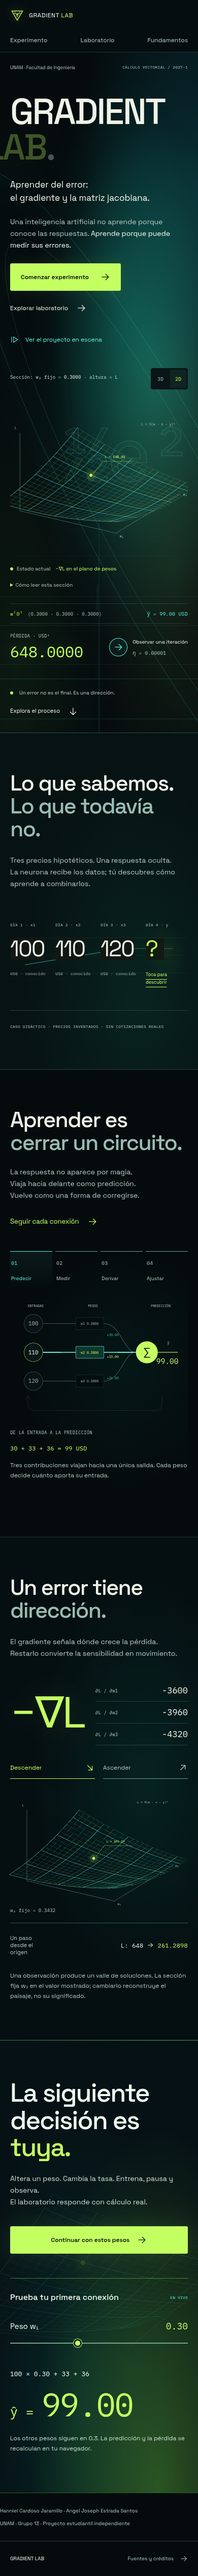
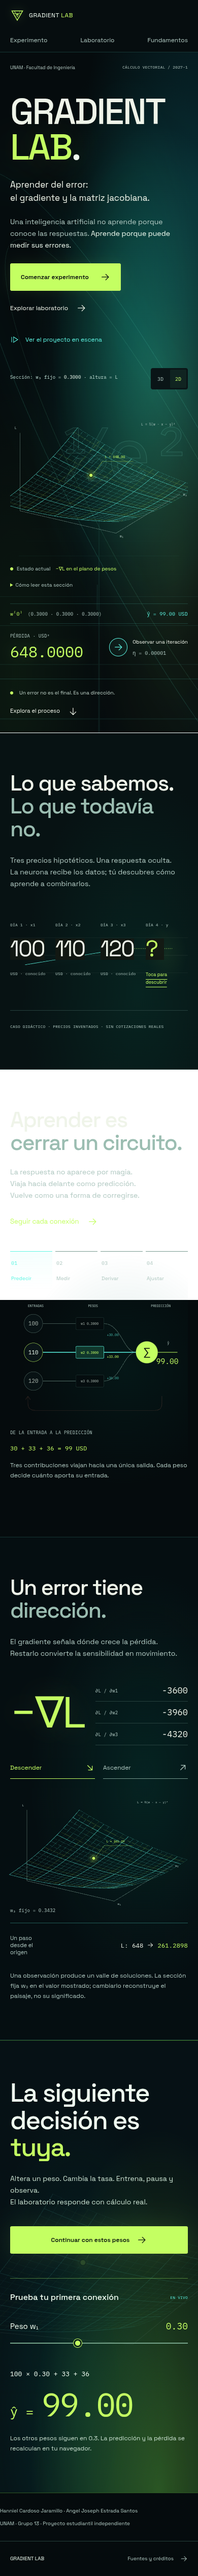
fix: elimina revelaciones en movimiento reducido y valida el build en CI

Changed region(s): [[0.0, 0.4054, 1.0, 0.5301], [0.0308, 0.0312, 0.3692, 0.0624]]

diff --git a/playwright.config.ts b/playwright.config.ts
@@ -4,8 +4,8 @@ import { existsSync } from 'node:fs';
 export default defineConfig({
   testDir: './tests',
   fullyParallel: false,
-  // WebGL uses a software renderer in CI; avoid saturating it with eight browsers.
-  workers: 2,
+  // A software WebGL browser already consumes the CI runner's CPU budget.
+  workers: process.env.CI ? 1 : 2,
   retries: process.env.CI ? 1 : 0,
   reporter: [['list'], ['html', { open: 'never' }]],
   use: {
@@ -22,7 +22,7 @@ export default defineConfig({
     { name: 'mobile', use: { browserName: 'chromium', viewport: { width: 390, height: 844 }, isMobile: true, hasTouch: true } },
   ],
   webServer: process.env.PLAYWRIGHT_BASE_URL ? undefined : {
-    command: 'npm run dev -- --port 4173',
+    command: process.env.CI ? 'npm run preview -- --port 4173' : 'npm run dev -- --port 4173',
     url: 'http://127.0.0.1:4173/gradient-lab/',
     reuseExistingServer: !process.env.CI,
   },

diff --git a/tests/visual-v3.spec.ts b/tests/visual-v3.spec.ts
@@ -1,6 +1,14 @@
 import { test, expect } from '@playwright/test';
 import AxeBuilder from '@axe-core/playwright';
 
+test('movimiento reducido elimina la animación de entrada de los controles', async ({ page }) => {
+  await page.emulateMedia({ reducedMotion: 'reduce' });
+  await page.goto('#/aprender/4');
+  await expect(page.locator('.chapter-visual')).toHaveCSS('animation-name', 'none');
+  await expect(page.locator('.chapter-visual')).toHaveCSS('opacity', '1');
+  expect((await new AxeBuilder({ page }).withTags(['wcag2a', 'wcag2aa', 'wcag21aa']).analyze()).violations).toEqual([]);
+});
+
 test('el foco de ruta respeta un control que el usuario ya seleccionó', async ({ page }) => {
   await page.clock.install({ time: new Date('2026-11-10T18:00:00Z') });
   await page.clock.pauseAt(new Date('2026-11-10T18:00:01Z'));

diff --git a/src/styles.css b/src/styles.css
@@ -582,6 +582,6 @@ caption { padding-block: 12px; font-size: 12px; color: var(--muted); text-align:
   .credits h2 { font-size: 28px; }
 }
 @media (prefers-reduced-motion: reduce) {
-  *, *::before, *::after { animation-duration: 0.01ms !important; animation-iteration-count: 1 !important; transition-duration: 0.01ms !important; scroll-behavior: auto !important; }
+  *, *::before, *::after { animation: none !important; transition: none !important; scroll-behavior: auto !important; }
   .signal { display: none; }
 }

diff --git a/docs/ESTADO_ACTUAL.md b/docs/ESTADO_ACTUAL.md
@@ -44,14 +44,14 @@ Canvas a demanda, sin rotación constante ni postprocesado. Material emisivo, Fr
 
 - `npm test -- --reporter=dot`: **32/32 aprobadas**.
 - `npm run build`: **aprobado**, incluida comprobación TypeScript estricta.
-- `PLAYWRIGHT_BASE_URL=http://127.0.0.1:4173/gradient-lab/ npm run test:e2e`: **40/40 aprobadas** sobre build estático local, escritorio 1440×1000 y móvil emulado 390×844.
-- Se conservan las 22 ejecuciones anteriores y se añaden 18: diez escenas, navegación, cálculos, reproducción/pausa/foco, salida con estado conservado, restauración, ascenso sincronizado, cifras exactas y paisaje visible hasta primer draw, ayudas de métricas y foco sin carreras de navegación. Axe sin infracciones en las vistas y reglas examinadas; no equivale a una auditoría manual completa.
+- `CI=1 PLAYWRIGHT_BASE_URL=http://127.0.0.1:4173/gradient-lab/ npm run test:e2e`: **42/42 aprobadas** sobre build estático local, escritorio 1440×1000 y móvil emulado 390×844.
+- Se conservan las 22 ejecuciones anteriores y se añaden 20: diez escenas, navegación, cálculos, reproducción/pausa/foco, salida con estado conservado, restauración, ascenso sincronizado, cifras exactas y paisaje visible hasta primer draw, ayudas de métricas, foco sin carreras de navegación y ausencia completa de animaciones en movimiento reducido. Axe sin infracciones en las vistas y reglas examinadas; no equivale a una auditoría manual completa.
 - Revisión independiente de código: se señalaron y corrigieron snapshot de ascenso y cifras intermedias inconsistentes. Revisión adicional del primer fotograma sin defectos importantes; la inspección visual la realizó el implementador.
[1 lines of base64/hex data omitted]
 
 El detector manual Impeccable no encontró hallazgos activos. Space Grotesk se mantiene por la decisión documentada, con excepción puntual `overused-font=space grotesk`; se registró también en la raíz del workspace para el hook que informa rutas `gradient-lab/src/...`. No se desactivaron reglas completas ni archivos.
 
-Durante la validación se corrigieron etiquetas sobre el título, separación del acceso cinematográfico, el hueco previo al primer draw, repetición de paso al reanudar, sincronización de ascenso y lecturas numéricas. Las pruebas de primer fotograma y ayuda contextual fallaron antes de los arreglos y pasaron después. La suite también detectó que el RAF de navegación podía quitar el foco a un control recién seleccionado: se reprodujo con el reloj de navegador y se corrigió conservando el foco del usuario, sin perder saltos explícitos a referencias. Un primer intento con ocho navegadores saturó SwiftShader; con dos workers la suite completa pasa sin ampliar timeouts.
+Durante la validación se corrigieron etiquetas sobre el título, separación del acceso cinematográfico, el hueco previo al primer draw, repetición de paso al reanudar, sincronización de ascenso y lecturas numéricas. Las pruebas de primer fotograma y ayuda contextual fallaron antes de los arreglos y pasaron después. La suite también detectó que el RAF de navegación podía quitar el foco a un control recién seleccionado: se reprodujo con el reloj de navegador y se corrigió conservando el foco del usuario, sin perder saltos explícitos a referencias. Localmente, ocho navegadores saturaban SwiftShader y dos permitían completar la suite. La primera ejecución remota con dos workers dio 33/40 y siete fallos: tiempo de interacción y contraste durante revelaciones. Se corrigió reduced-motion con animation:none en lugar de una duración de 0.01 ms, se añadió una regresión que falló antes y pasó después, y CI pasó a servir el build estático con un solo worker. La suite local final da 42/42 con esa configuración, sin ampliar timeouts ni quitar aserciones. La revisión independiente de esta corrección no encontró riesgos importantes.
 
 ## Comparación visual y animaciones
 
@@ -67,24 +67,24 @@ Las carpetas [antes](visual-v3/before/) y [después](visual-v3/after/) contienen
 | Laboratorio divergente | [Antes](visual-v3/before/lab-Divergente-1440.png) | [Después](visual-v3/after/lab-Divergente-1440.png) |
 | Presentación | [Académica v2](visual-v3/before/presentation-1440.png) | [Cinematográfica v3](visual-v3/after/cinema-intro-1440.png) |
 
-Presentación: [jacobiana](visual-v3/after/cinema-jacobian-1440.png), [descenso](visual-v3/after/cinema-descent-1440.png), [entrenamiento real](visual-v3/after/cinema-live-1440.png), [conclusión](visual-v3/after/cinema-end-1440.png), [móvil](visual-v3/after/cinema-intro-390.png), [movimiento reducido](visual-v3/after/reduced-390.png), [ayuda contextual móvil](visual-v3/after/lab-help-390.png).
+Presentación: [jacobiana](visual-v3/after/cinema-jacobian-1440.png), [descenso](visual-v3/after/cinema-descent-1440.png), [entrenamiento real](visual-v3/after/cinema-live-1440.png), [conclusión](visual-v3/after/cinema-end-1440.png), [móvil](visual-v3/after/cinema-intro-390.png), [movimiento reducido](visual-v3/after/reduced-390.png), [ayuda contextual móvil](visual-v3/after/lab-help-390.png), [jacobiana sin animación](visual-v3/after/reduced-jacobian-390.png).
 
 **[Grabación WebM de la experiencia](visual-v3/after/video/presentation.webm)**: 23.04 s, 1440×1000, VP9 a 25 fotogramas/s de grabación, 9.18 MB. Captura real del navegador con entrada, una iteración, circuito, jacobiana, descenso, entrenamiento y conclusión. Se graba aparte de las medidas de cadencia para no añadir el coste del codificador al benchmark. Reproducción: descargar/abrir en un navegador compatible; no se carga al entrar en la aplicación.
 
 ## Rendimiento medido
 
-Builds de producción v2/v3, tamaños gzip en bytes:
+Builds de producción v2/v3, tamaños gzip en bytes (columna v3 actualizada tras la corrección de movimiento reducido):
 
 | Recurso | V2 | V3 | Diferencia |
 |---|---:|---:|---:|
-| JavaScript inicial | 91,468 B | 92,569 B | +1,101 B |
-| CSS inicial | 12,744 B | 18,075 B | +5,331 B |
-| Escena diferida | 250,297 B | 251,557 B | +1,260 B |
-| Presentación diferida nueva | — | 3,284 B | Solo al abrirla |
+| JavaScript inicial | 91,468 B | 92,568 B | +1,100 B |
+| CSS inicial | 12,744 B | 18,056 B | +5,312 B |
+| Escena diferida | 250,297 B | 251,556 B | +1,259 B |
+| Presentación diferida nueva | — | 3,283 B | Solo al abrirla |
 
-JS + CSS iniciales: **+6,432 B gzip (6.2 %)**. Recursos observados en portada: 161,244 → 167,676 B en teléfono y 411,841 → 419,533 B con 3D de escritorio/tableta. La escena sigue en un chunk separado; Vite mantiene el aviso por superar 500 kB sin comprimir.
+JS + CSS iniciales: **+6,412 B gzip (6.2 %)**. Recursos observados en portada: 161,244 → 167,676 B en teléfono y 411,841 → 419,533 B con 3D de escritorio/tableta. La escena sigue en un chunk separado; Vite mantiene el aviso por superar 500 kB sin comprimir.
 
-FCP local, una carga por anchura y fase:
+FCP local, una carga por anchura y fase. La muestra v3 corresponde al commit 6b5af76; los cambios visuales posteriores afectan únicamente a movimiento reducido:
 
 | Anchura | V2 | V3 |
 |---|---:|---:|
@@ -98,11 +98,11 @@ No se afirma una mejora de carga: cuatro muestras aumentan y la de 390 px dismin
 
 En 1440 px, intervalos rAF durante una muestra de entrada de 2.2 s: v2 mediana 16.7 ms, p95 16.7 ms, 1 intervalo >33.34 ms (130 muestras); v3 mediana 16.7 ms, p95 50 ms, 19 intervalos >33.34 ms (89 muestras). El coste de inicio es mayor en SwiftShader. Esto mide cadencia del navegador, **no FPS efectivos de GPU**. Tras estabilizar, hubo **0 llamadas de dibujo adicionales en 400 ms** en todas las anchuras; en teléfonos el hero permanece en SVG.
 
-Datos completos, renderer y nombres/hash de bundles: [v2](visual-v3/before/performance.json) y [v3](visual-v3/after/performance.json). La grabación está separada del muestreo de cadencia. No se convierten estos resultados en una promesa de rendimiento en hardware físico.
+Los tamaños actualizados están en finalBundles del JSON; bundles conserva los recursos exactos del muestreo original. Las capturas de movimiento reducido se actualizaron después de corregirlo, sin repetir la grabación de movimiento completo. Datos completos, renderer y nombres/hash de bundles: [v2](visual-v3/before/performance.json) y [v3](visual-v3/after/performance.json). La grabación está separada del muestreo de cadencia. No se convierten estos resultados en una promesa de rendimiento en hardware físico.
 
 ## Entrega y publicación
 
-PR abierta: **[#2 — Electric Observatory y presentación cinematográfica](https://github.com/HannDev2/gradient-lab/pull/2)**, de `feature/visual-v3` hacia `feature/visual-v2`. Código, pruebas y evidencia visual guardados en `6b5af76b516cbf97603e8285a156a66c36f21e38`; los commits siguientes completan enlaces/documentación. Los resultados de Actions se consultan en [las verificaciones de la PR](https://github.com/HannDev2/gradient-lab/pull/2/checks).
+PR abierta: **[#2 — Electric Observatory y presentación cinematográfica](https://github.com/HannDev2/gradient-lab/pull/2)**, de `feature/visual-v3` hacia `feature/visual-v2`. Código, pruebas y evidencia visual guardados en `6b5af76b516cbf97603e8285a156a66c36f21e38`; los commits siguientes completan enlaces y corrigen movimiento reducido/configuración de CI. Los resultados de Actions se consultan en [las verificaciones de la PR](https://github.com/HannDev2/gradient-lab/pull/2/checks).
 
[1 lines of base64/hex data omitted]
 

diff --git a/docs/VERIFICATION.md b/docs/VERIFICATION.md
@@ -49,7 +49,7 @@ PR de entrega: [#1](https://github.com/HannDev2/gradient-lab/pull/1). Validació
 
 ## Electric Observatory v3 — comprobación local
 
-10 de noviembre de 2026 (México), `feature/visual-v3` basada en `a18e3b0` de v2. `npm test -- --reporter=dot`: **32/32**; `npm run build`: **aprobado**, incluye TypeScript; `PLAYWRIGHT_BASE_URL=http://127.0.0.1:4173/gradient-lab/ npm run test:e2e`: **40/40** sobre build estático con Vite preview. Se conservan 22 ejecuciones anteriores y se añaden 18, repartidas entre escritorio y móvil emulado.
+10 de noviembre de 2026 (México), `feature/visual-v3` basada en `a18e3b0` de v2. `npm test -- --reporter=dot`: **32/32**; `npm run build`: **aprobado**, incluye TypeScript; `CI=1 PLAYWRIGHT_BASE_URL=http://127.0.0.1:4173/gradient-lab/ npm run test:e2e`: **42/42** sobre build estático con Vite preview. Se conservan 22 ejecuciones anteriores y se añaden 20, repartidas entre escritorio y móvil emulado.
 
 La presentación completa verifica diez escenas, cálculo real compartido, salida con estado conservado, reproducción/pausa/foco, restauración, ascenso sincronizado y cifras exactas. También se comprueban ayuda contextual mediante teclado/toque/Escape y SVG hasta primer draw. La prueba con RAF detenido reprodujo la carrera de foco de navegación; tras el guard de foco pasa tanto esa regresión como el flujo previo de teclado. No se aumentaron timeouts ni se retiraron aserciones para lograrlo.
 
@@ -62,3 +62,5 @@ Capturas comparativas v2/v3, vídeo real WebM y métricas se guardan en `docs/vi
[1 lines of base64/hex data omitted]
 
 Entrega v3: [PR #2 hacia feature/visual-v2](https://github.com/HannDev2/gradient-lab/pull/2), abierta y sin fusionar. [Verificaciones remotas de la PR](https://github.com/HannDev2/gradient-lab/pull/2/checks); los resultados locales anteriores corresponden al código `6b5af76b516cbf97603e8285a156a66c36f21e38`.
+
+Corrección tras Actions [42967585060](https://github.com/HannDev2/gradient-lab/actions/runs/42967585060): 33/40 y siete fallos de navegador, aunque motor/build pasaban. Se eliminó la animación global en reduced-motion (antes duraba 0.01 ms), con prueba roja/verde y capturas específicas; CI sirve ahora el build con un navegador. Resultado local final: 42/42, sin ampliar timeouts ni omitir contraste. Los tamaños finales se distinguen de las muestras de FCP/cadencia del commit 6b5af76 en performance.json; la corrección posterior solo afecta visualmente a movimiento reducido.

diff --git a/docs/DECISIONS.md b/docs/DECISIONS.md
@@ -22,5 +22,6 @@
 19. **Luz sin postprocesado pesado.** Material emisivo, color por pérdida real, Fresnel aditivo, líneas y una textura de halo local. No se añade bloom ni otra dependencia. La trayectoria usa centros de sección evaluados y el grosor solo mejora visibilidad. Canvas a demanda; se conserva SVG hasta que termina el primer fotograma del hero.
 20. **Presentación con las mismas operaciones.** `Cinema` reutiliza `ChapterExperiment`, capítulos y visualizaciones; la escena de entrenamiento recibe el reducer de `App`. La reproducción es opcional y se pausa al perder foco, ocultar la pestaña o usar controles matemáticos. Salir conserva el experimento; restaurar es una acción explícita. Un callback de snapshot mantiene ascenso/descenso y paisaje sincronizados.
 21. **Cifras exactas durante la animación.** Se anima la aparición de la cifra calculada, nunca valores intermedios independientes de error y pérdida. La identidad L=e²/2 sigue siendo cierta en todas las lecturas visibles.
-22. **Evidencia de rendimiento limitada al entorno.** Se comparan builds v2/v3, gzip, FCP e intervalos rAF. Chromium identifica SwiftShader incluso sin forzar ANGLE; no se presenta la mediana de rAF como FPS efectivos. La grabación se realiza aparte para no contaminar las medidas. Playwright usa dos workers para evitar saturar el renderizador software en CI.
+22. **Evidencia de rendimiento limitada al entorno.** Se comparan builds v2/v3, gzip, FCP e intervalos rAF. Chromium identifica SwiftShader incluso sin forzar ANGLE; no se presenta la mediana de rAF como FPS efectivos. La grabación se realiza aparte para no contaminar las medidas. Tras medir los fallos del runner, Playwright usa un worker y preview estático en CI; conserva dos workers y servidor de desarrollo para el flujo local.
 23. **Ayuda contextual nativa.** Las tres métricas explican fórmula, signo y unidades con popover de plataforma y CSS; teclado, toque, Escape y cierre exterior sin añadir una librería de tooltips. Se comprueba el flujo en ambas clases de pantalla.
+24. **Movimiento reducido sin estados intermedios.** La regla global usa animation:none y transition:none; una duración de 0.01 ms todavía podía dejar a Axe observando la opacidad inicial antes del primer paint. Regresión en ambas pantallas y captura específica de la jacobiana. No se desactiva contraste ni se relajan pruebas.

diff --git a/README.md b/README.md
@@ -24,7 +24,7 @@ El ejemplo reproduce 99 → 112.14 de predicción y 648 → 261.2898 de pérdida
 
 ## Tecnologías y verificación
 
-Vite, React, TypeScript estricto, Three.js y React Three Fiber, SVG, CSS propio y fuentes locales. Vitest: 32 pruebas del motor, estado y geometría. Playwright: 40 comprobaciones en escritorio y móvil emulado, incluida accesibilidad automatizada con Axe. Resultados y métricas en el informe. Build estático; sin backend ni API de IA. La v3 no añade dependencias.
+Vite, React, TypeScript estricto, Three.js y React Three Fiber, SVG, CSS propio y fuentes locales. Vitest: 32 pruebas del motor, estado y geometría. Playwright: 42 comprobaciones en escritorio y móvil emulado, incluida accesibilidad automatizada con Axe. Resultados y métricas en el informe. Build estático; sin backend ni API de IA. La v3 no añade dependencias.
 
 Skills empleadas: Ponytail para alcance, Impeccable como guía visual principal, Animate para movimiento explicativo, planificación/TDD/verificación y revisión independiente de código. Decisiones y límites se detallan en la documentación.
 
